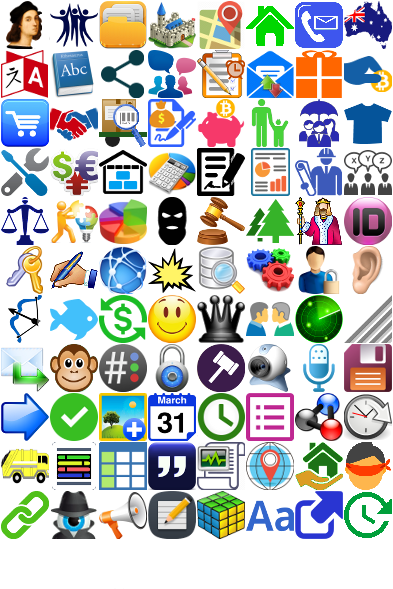
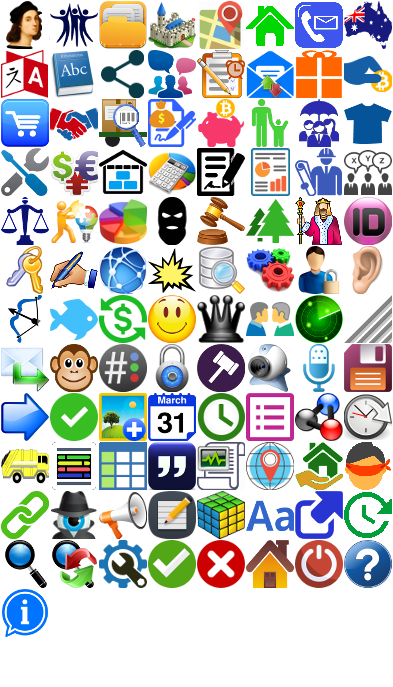
version 0.76 alpha

diff --git a/lib/gtk.rb b/lib/gtk.rb
@@ -191,14 +191,15 @@ module PandoraGtk
       bbox.border_width = 2
       bbox.spacing = 4
 
-      @okbutton = Gtk::Button.new(Gtk::Stock::OK)
+      @okbutton = Gtk::Button.new(:ok)
       okbutton.width_request = 110
       okbutton.signal_connect('clicked') do |*args|
         @response=2
       end
       bbox.pack_start(okbutton, false, false, 0)
 
-      @cancelbutton = Gtk::Button.new(Gtk::Stock::CANCEL)
+      $window.register_stock(:cancel)
+      @cancelbutton = Gtk::Button.new(:cancel)
       cancelbutton.width_request = 110
       cancelbutton.signal_connect('clicked') do |*args|
         @response=1
@@ -1662,7 +1663,7 @@ module PandoraGtk
       get_time(true)
       vbox.pack_start(hbox, false, false, 0)
 
-      btn = Gtk::Button.new(Gtk::Stock::OK)
+      btn = Gtk::Button.new(:ok)
       btn.signal_connect('clicked') do |widget|
         new_time = @entry.text
         if new_time and @@time_his
@@ -1933,7 +1934,7 @@ module PandoraGtk
       stock = stock.to_sym
       title ||= 'Panhash'
       super(HexEntry, stock, title, amodal=nil, *args)
-      @view_button = self.add_button(Gtk::Stock::HOME, 'Cabinet') do
+      @view_button = self.add_button(:home, 'Cabinet') do
         panhash = @entry.text
         if (panhash.bytesize>4) and PandoraUtils.hex?(panhash)
           panhash = PandoraUtils.hex_to_bytes(panhash)
@@ -2713,8 +2714,8 @@ module PandoraGtk
 
       #@@back_buf ||= $window.get_preset_icon(Gtk::Stock::GO_BACK, nil, btn_height)
       #@@forward_buf ||= $window.get_preset_icon(Gtk::Stock::GO_FORWARD, nil, btn_height)
-      @@find_buf ||= $window.get_preset_icon(Gtk::Stock::FIND, nil, btn_height)
-      @@replace_buf ||= $window.get_preset_icon(Gtk::Stock::FIND_AND_REPLACE, nil, btn_height)
+      @@find_buf ||= $window.get_preset_icon(:find, nil, btn_height)
+      @@replace_buf ||= $window.get_preset_icon(:replace, nil, btn_height)
       @@back_buf ||= $window.get_preset_icon(Gtk::Stock::GO_UP, nil, btn_height)
       @@forward_buf ||= $window.get_preset_icon(Gtk::Stock::GO_DOWN, nil, btn_height)
       @@all_buf ||= $window.get_preset_icon(Gtk::Stock::SELECT_ALL, nil, btn_height)
@@ -7716,7 +7717,7 @@ module PandoraGtk
   $load_more_history_count = 50
 
   CabPageInfo = [[Gtk::Stock::PROPERTIES, 'Basic'], \
-    [Gtk::Stock::HOME, 'Profile'], \
+    [:home, 'Profile'], \
     [:opinion, 'Opinions'], \
     [:relation, 'Relations'], \
     [:sign, 'Signs'], \
@@ -8007,12 +8008,12 @@ module PandoraGtk
 
       add_btn_to_toolbar
 
-      add_btn_to_toolbar(Gtk::Stock::SAVE) do |btn|
+      add_btn_to_toolbar(:save) do |btn|
         @cab_panhash = pb.save_form_fields_with_flags_to_database
         @kind = PandoraUtils.kind_from_panhash(@cab_panhash)
         construct_cab_title
       end
-      add_btn_to_toolbar(Gtk::Stock::OK) do |btn|
+      add_btn_to_toolbar(:ok) do |btn|
         self.save_and_close
       end
 
@@ -8414,12 +8415,12 @@ module PandoraGtk
 
       PandoraGtk.add_tool_btn(toolbar)
 
-      btn = PandoraGtk.add_tool_btn(toolbar, Gtk::Stock::FIND, nil, 0) do
+      btn = PandoraGtk.add_tool_btn(toolbar, :find, nil, 0) do
         bodywin.body_child.show_hide_find_panel(false, true)
       end
       menu = Gtk::Menu.new
       btn.menu = menu
-      PandoraGtk.add_menu_item(btn, menu, Gtk::Stock::FIND_AND_REPLACE) do
+      PandoraGtk.add_menu_item(btn, menu, :replace) do
         bodywin.body_child.show_hide_find_panel(true, true)
       end
       PandoraGtk.add_menu_item(btn, menu, Gtk::Stock::JUMP_TO) do
@@ -8468,11 +8469,11 @@ module PandoraGtk
 
       PandoraGtk.add_tool_btn(toolbar)
 
-      pb.save_btn = PandoraGtk.add_tool_btn(toolbar, Gtk::Stock::SAVE) do
+      pb.save_btn = PandoraGtk.add_tool_btn(toolbar, :save) do
         @cab_panhash = pb.save_form_fields_with_flags_to_database
         @kind = PandoraUtils.kind_from_panhash(@cab_panhash)
       end
-      PandoraGtk.add_tool_btn(toolbar, Gtk::Stock::OK) do
+      PandoraGtk.add_tool_btn(toolbar, :ok) do
         pb.save_form_fields_with_flags_to_database
         self.destroy
       end
@@ -8484,8 +8485,8 @@ module PandoraGtk
     def fill_view_toolbar
       add_btn_to_toolbar(Gtk::Stock::ADD, 'Add')
       add_btn_to_toolbar(Gtk::Stock::DELETE, 'Delete')
-      add_btn_to_toolbar(Gtk::Stock::OK, 'Ok') { |*args| @response=2 }
-      add_btn_to_toolbar(Gtk::Stock::CANCEL, 'Cancel') { |*args| @response=1 }
+      add_btn_to_toolbar(:ok, 'Ok') { |*args| @response=2 }
+      add_btn_to_toolbar(:cancel, 'Cancel') { |*args| @response=1 }
       @zoom_100 = add_btn_to_toolbar(Gtk::Stock::ZOOM_100, 'Show 1:1', true) do
         @zoom_fit.safe_set_active(false)
         true
@@ -10879,7 +10880,7 @@ module PandoraGtk
       #vpaned = Gtk::VPaned.new
       vbox = self
 
-      search_btn = Gtk::ToolButton.new(Gtk::Stock::FIND, _('Search'))
+      search_btn = Gtk::ToolButton.new(:find, _('Search'))
       search_btn.tooltip_text = _('Start searching')
       PandoraGtk.set_readonly(search_btn, true)
 
@@ -13474,7 +13475,7 @@ module PandoraGtk
   def self.show_search_panel(text=nil)
     sw = SearchBox.new(text)
 
-    image = Gtk::Image.new(Gtk::Stock::FIND, Gtk::IconSize::SMALL_TOOLBAR)
+    image = Gtk::Image.new(:find, Gtk::IconSize::SMALL_TOOLBAR)
     image.set_padding(2, 0)
 
     label_box = TabLabelBox.new(image, _('Search'), sw) do
@@ -13789,7 +13790,7 @@ module PandoraGtk
       end
       menu.append(checkmenuitem)
 
-      menuitem = Gtk::ImageMenuItem.new(Gtk::Stock::PROPERTIES)
+      menuitem = Gtk::ImageMenuItem.new(:setup)
       alabel = menuitem.children[0]
       alabel.set_text(_('All parameters')+'..', true)
       menuitem.signal_connect('activate') do |w|
@@ -13808,7 +13809,7 @@ module PandoraGtk
       end
       menu.append(menuitem)
 
-      menuitem = Gtk::ImageMenuItem.new(Gtk::Stock::QUIT)
+      menuitem = Gtk::ImageMenuItem.new(:quit)
       alabel = menuitem.children[0]
       alabel.set_text(_('_Quit'), true)
       menuitem.signal_connect('activate') do |w|
@@ -14372,19 +14373,22 @@ module PandoraGtk
           iX = index - (iY*numX)
           dX = bord + iX*(cellX+padd)
           dY = bord + iY*(cellY+padd)
-          #p '[cellX, cellY, iX, iY, dX, dY]='+[cellX, cellY, iX, iY, dX, dY].inspect
+          #p '~~~~[preset, cellX, cellY, iX, iY, dX, dY]='+[preset, cellX, cellY, iX, iY, dX, dY].inspect
           draft_buf = Gdk::Pixbuf.new(Gdk::Pixbuf::COLORSPACE_RGB, true, 8, cellX, cellY)
           preset_buf.copy_area(dX, dY, cellX, cellY, draft_buf, 0, 0)
           #draft_buf = Gdk::Pixbuf.new(preset_buf, 0, 0, 21, 24)
 
           pixs = draft_buf.pixels
+          #p '+++pixs='+pixs.class.inspect
+          pixs = pixs.pack('C*') if pixs.is_a?(Array)
+          #p '>>>pixs='+pixs.class.inspect
           if pixs.is_a?(String)
-            pixs = AsciiString.new(draft_buf.pixels)
+            pixs = AsciiString.new(pixs)
             pix_size = draft_buf.n_channels
             width = draft_buf.width
             height = draft_buf.height
             w = width * pix_size  #buf.rowstride
-            #p '[pixs.bytesize, width, height, w]='+[pixs.bytesize, width, height, w].inspect
+            #p '///[pixs.bytesize, width, height, w]='+[pixs.bytesize, width, height, w].inspect
 
             bg = pixs[0, pix_size]   #top left pixel consider background
 
@@ -14446,15 +14450,14 @@ module PandoraGtk
 
             left = left/pix_size
             right = right/pix_size
-            #p '====[top,bottom,left,right]='+[top,bottom,left,right].inspect
 
             width2 = right-left+1
             height2 = bottom-top+1
-            #p '  ---[width2,height2]='+[width2,height2].inspect
+            #p '====[preset,emot,top,bottom,left,right,width2,height2]='+[preset,emot,top,bottom,left,right,width2,height2].inspect
 
             if (width2>0) and (height2>0) \
             and ((left>0) or (top>0) or (width2<width) or (height2<height))
-              # Crop borders
+              #p '---Crop borders to left, top, width2, height2='+[left, top, width2, height2].inspect
               buf = Gdk::Pixbuf.new(Gdk::Pixbuf::COLORSPACE_RGB, true, 8, width2, height2)
               draft_buf.copy_area(left, top, width2, height2, buf, 0, 0)
             else
@@ -14809,7 +14812,7 @@ module PandoraGtk
       ['Delegation', 'delegation:m', 'Delegations'],
       ['Registry', 'registry:m', 'Registry'],
       [nil, nil, '_Node'],
-      ['Parameter', Gtk::Stock::PROPERTIES, 'Parameters'],
+      ['Parameter', 'setup', 'Parameters'],
       ['-', nil, '-'],
       ['Key', 'key', 'Keys'],   #Gtk::Stock::GOTO_BOTTOM
       ['Sign', 'sign:m', 'Signs'],
@@ -14824,21 +14827,21 @@ module PandoraGtk
       ['Listen', :listen, 'Listen', '<control>L', :check],  #Gtk::Stock::CONNECT
       ['Hunt', :hunt, 'Hunt', '<control>N', :check],   #Gtk::Stock::REFRESH
       ['Radar', :radar, 'Radar', '<control>R', :check],  #Gtk::Stock::GO_FORWARD
-      ['Search', Gtk::Stock::FIND, 'Search', '<control>T'],
+      ['Search', :find, 'Search', '<control>T'],
       ['>', nil, '_Wizards'],
-      ['>Cabinet', Gtk::Stock::HOME, 'Cabinet'],
+      ['>Cabinet', :home, 'Cabinet'],
       ['>Exchange', 'exchange:m', 'Exchange'],
       ['>Session', 'session:m', 'Sessions'],   #Gtk::Stock::JUSTIFY_FILL
       ['>Fisher', 'fish:m', 'Fishers'],
       ['>Wizard', Gtk::Stock::PREFERENCES.to_s+':m', '_Wizards'],
       ['-', nil, '-'],
       ['>', nil, '_Help'],
-      ['>Guide', Gtk::Stock::HELP.to_s+':m', 'Guide', 'F1'],
+      ['>Guide', 'help:m', 'Guide', 'F1'],
       ['>Readme', ':m', 'README.TXT'],
       ['>DocPath', Gtk::Stock::OPEN.to_s+':m', 'Documentation'],
-      ['>About', Gtk::Stock::ABOUT, '_About'],
+      ['>About', :about, '_About'],
       ['Close', Gtk::Stock::CLOSE.to_s+':', '_Close', '<control>W'],
-      ['Quit', Gtk::Stock::QUIT, '_Quit', '<control>Q']
+      ['Quit', :quit, '_Quit', '<control>Q']
       ]
 
     # Fill main menu
@@ -15115,7 +15118,7 @@ module PandoraGtk
       add_status_field(PandoraUI::SF_Harvest, '0', 'Files', :blob) do
         PandoraUI.do_menu_act('Blob')
       end
-      add_status_field(PandoraUI::SF_Search, '0', 'Search', Gtk::Stock::FIND) do
+      add_status_field(PandoraUI::SF_Search, '0', 'Search', :find) do
         PandoraUI.do_menu_act('Search')
       end
       resize_eb = Gtk::EventBox.new
